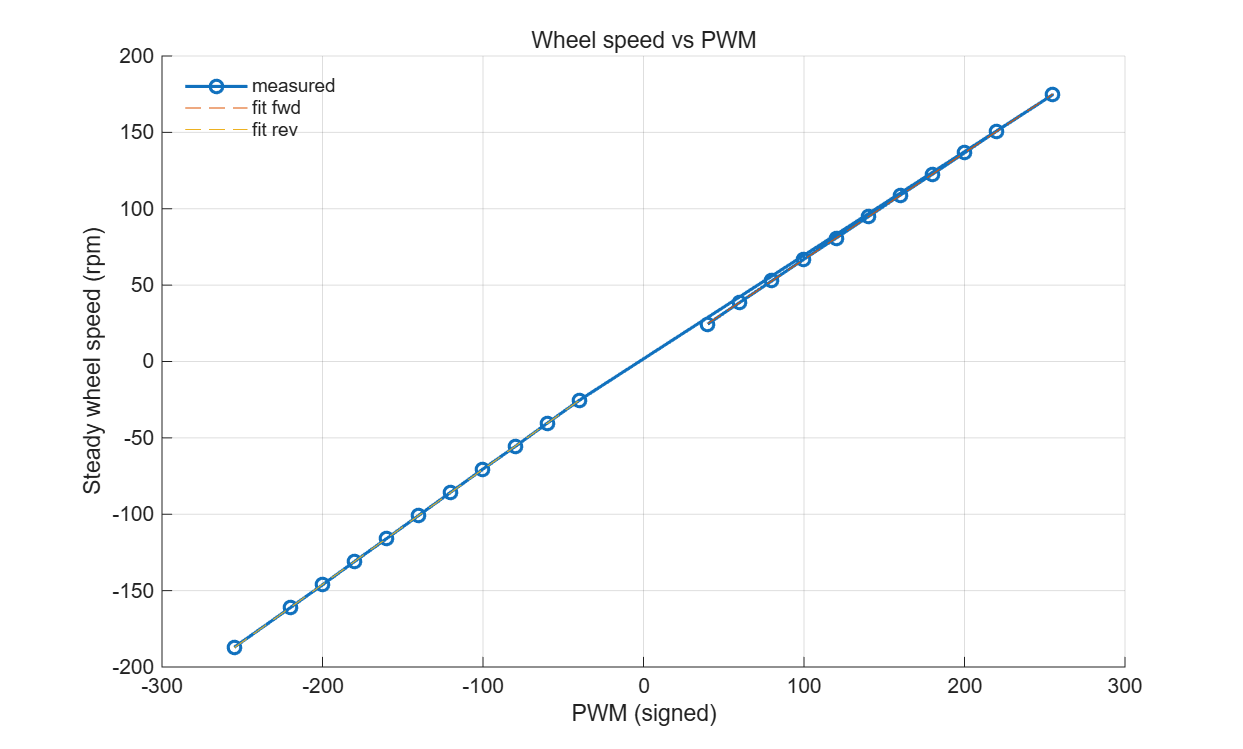
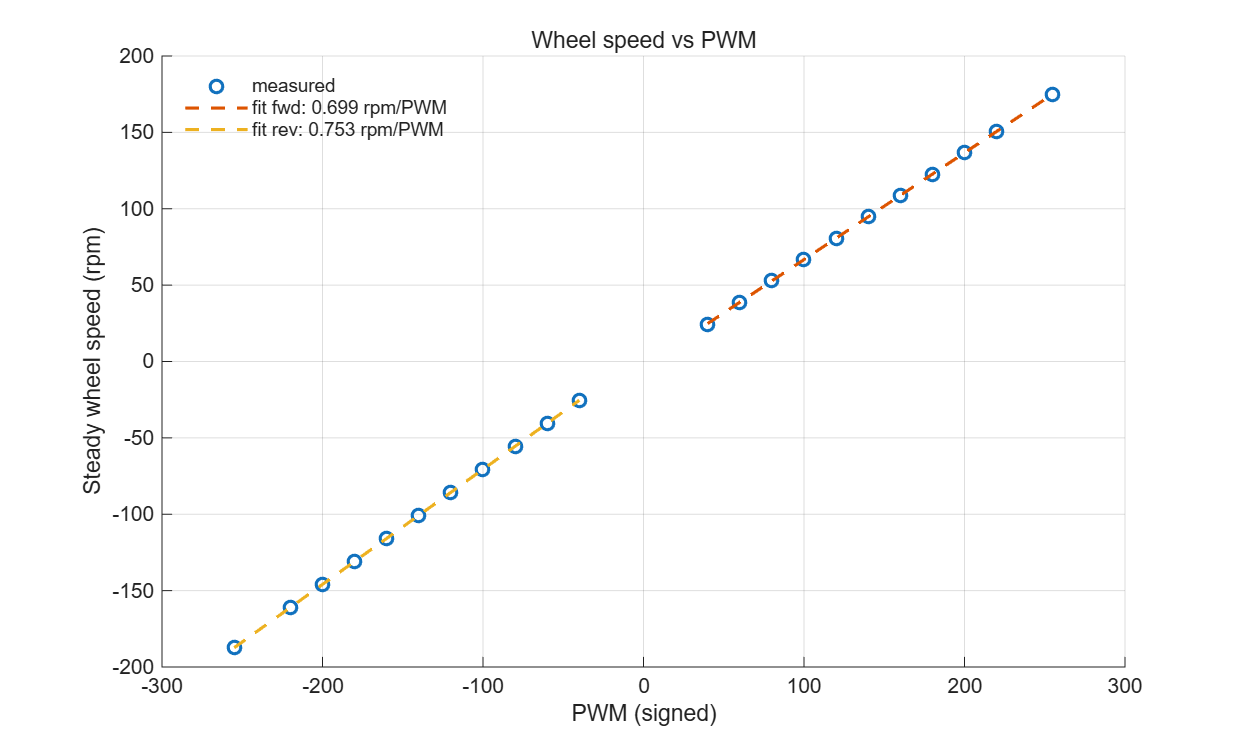
Add deadband graph, fix speed-curve plot, show all graphs in RESULTS.md

diff --git a/test_motor_3/matlab/analyse_motor_tests.m b/test_motor_3/matlab/analyse_motor_tests.m
@@ -72,7 +72,7 @@ f = fullfile(datadir, "speed_curve.csv");
 if isfile(f)
     T = readtable(f, "CommentStyle", "#");
     fig = figure("Name", "Speed curve", "Color", "w"); light(fig); hold on
-    plot(T.pwm, T.rpm, "o-", "LineWidth", 1.5, "DisplayName", "measured");
+    plot(T.pwm, T.rpm, "o", "LineWidth", 1.5, "DisplayName", "measured");   % markers only: no line across the gap at 0
     out(end + 1) = "";
     out(end + 1) = "SPEED CURVE (straight-line fit where the wheel turns)";
     for s = [1, -1]
@@ -83,7 +83,8 @@ if isfile(f)
             ternary(s > 0, "forward", "reverse"), c(1), c(2), -c(2) / c(1), ...
             max(abs(r.rpm))); %#ok<AGROW>
         p = linspace(min(r.pwm), max(r.pwm), 50);
-        plot(p, polyval(c, p), "--", "DisplayName", "fit " + ternary(s > 0, "fwd", "rev"));
+        plot(p, polyval(c, p), "--", "LineWidth", 1.5, ...
+            "DisplayName", sprintf("fit %s: %.3f rpm/PWM", ternary(s > 0, "fwd", "rev"), c(1)));
     end
     xlabel("PWM (signed)"); ylabel("Steady wheel speed (rpm)");
     title("Wheel speed vs PWM", "FontWeight", "normal");

diff --git a/test_motor_3/matlab/data/RESULTS.md b/test_motor_3/matlab/data/RESULTS.md
@@ -17,15 +17,21 @@ Bench tests used the motor clamped on the bench, with the 100 mm steel flywheel 
 | Forward | 17.3 (17–18) | 9.0 |
 | Reverse | 17.0 (15–18) | 8.0 |
 
+![Deadband](deadband.png)
+
 ## Step response and stopping (`step_*.csv`, `step_responses.png`)
 - Time constant **τ ≈ 0.085 s** (0.078–0.098).
 - Brake stops the wheel in **0.15–0.19 s**; coasting takes 0.91 s (from PWM 150) to 1.35 s (from PWM 255).
 - After braking, the wheel still slides about **speed (counts/s) × 0.053 s**: 162 counts from PWM 100, up to 474 counts (61° of wheel) from PWM 255.
 
+![Step responses](step_responses.png)
+
 ## Speed curve (`speed_curve.csv`, `speed_curve.png`)
 - Forward: rpm = 0.699 × PWM − 3.1, max 175 rpm.
 - Reverse: rpm = 0.753 × PWM + 4.7, max 187 rpm.
 - Speed is linear in PWM. Reverse is about 7% stronger.
+
+![Speed curve](speed_curve.png)
 
 ## Starting PD gains (simulated with the numbers above)
 Wheel position PD, 5 ms loop: **Kp = 1.0** PWM per count, **Kd = 0.05** PWM per (count/s).
@@ -41,6 +47,8 @@ In the simulation, a one-revolution move overshoots by 16 counts and settles wit
   - an outside kick (a touch, a tug on a wire, or the swivel slipping), with the near-frictionless swivel keeping it spinning; or
   - the wheel creeping when it should have been braked (an electrical fault).
 - **To be checked in run 2**, with the encoder readout.
+
+![Body rotation, run 1](satellite_run1/body_rotation.png)
 
 ## Hardware status
 After run 1 the motor stopped working. The previous Nano had a fried capacitor, and the new Nano went into the same breadboard, which showed signs of leaked electrolyte. Before any more testing: replace the breadboard, check that the battery feeds VIN (not the 5V pin) with the right polarity, then check the driver.
